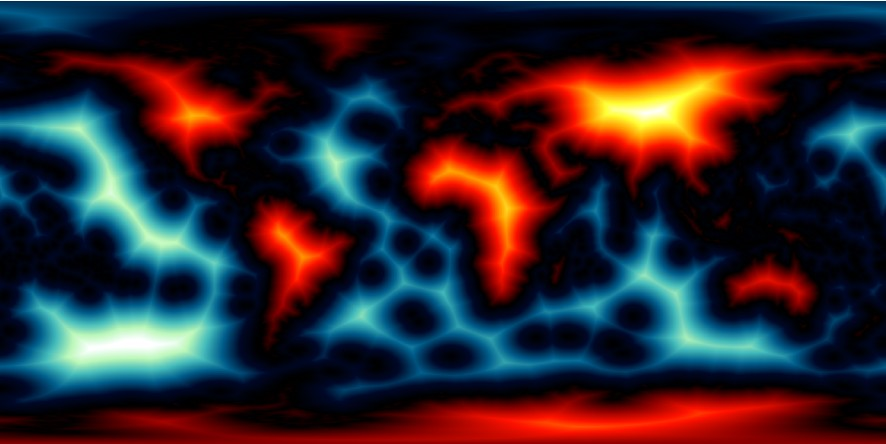
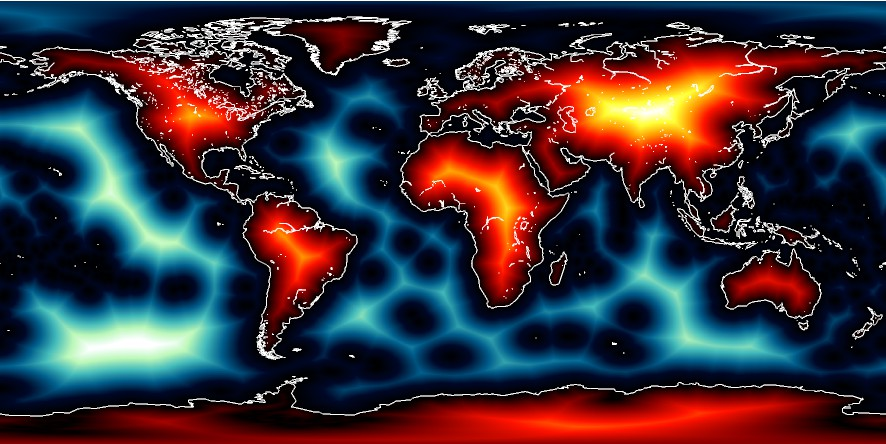
Add shorelines to image of earth_dist dataset

diff --git a/docs/earth-dist.rst b/docs/earth-dist.rst
@@ -51,7 +51,8 @@ We scale and reformat the original data to take up very little space so that dow
 from the servers are as fast as possible. For the distance grid this meant
 we chose 80 m as the smallest data unit, which is below the uncertainties in the
 model. Data are scaled and shifted to fit in a short integer grid that is highly compressed
-by netCDF lossless compression and chunking. The data are reported in kilometers.
+by netCDF lossless compression and chunking. The data are reported in kilometers. Positive
+(negative) distance values mean land to coastline (ocean to coastline).
 
 Data References
 ~~~~~~~~~~~~~~~
